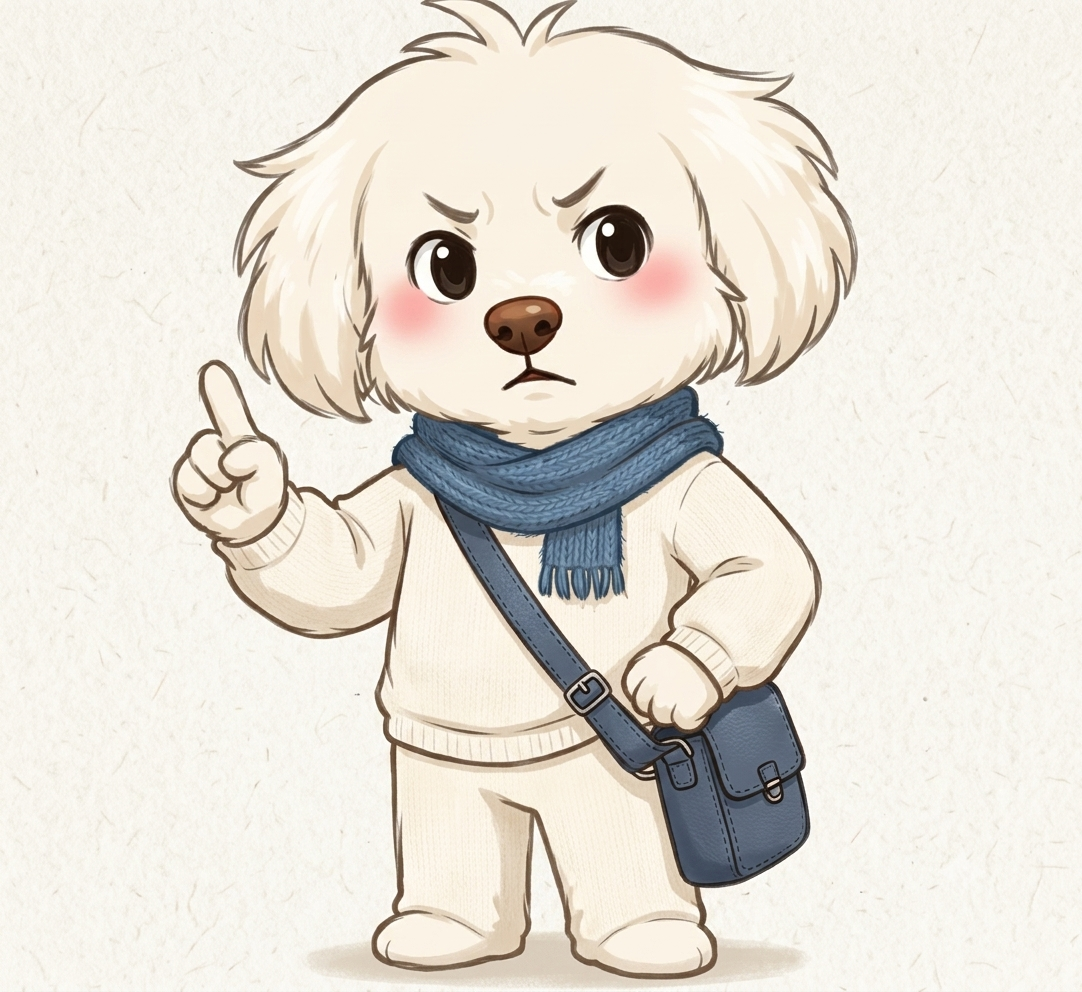
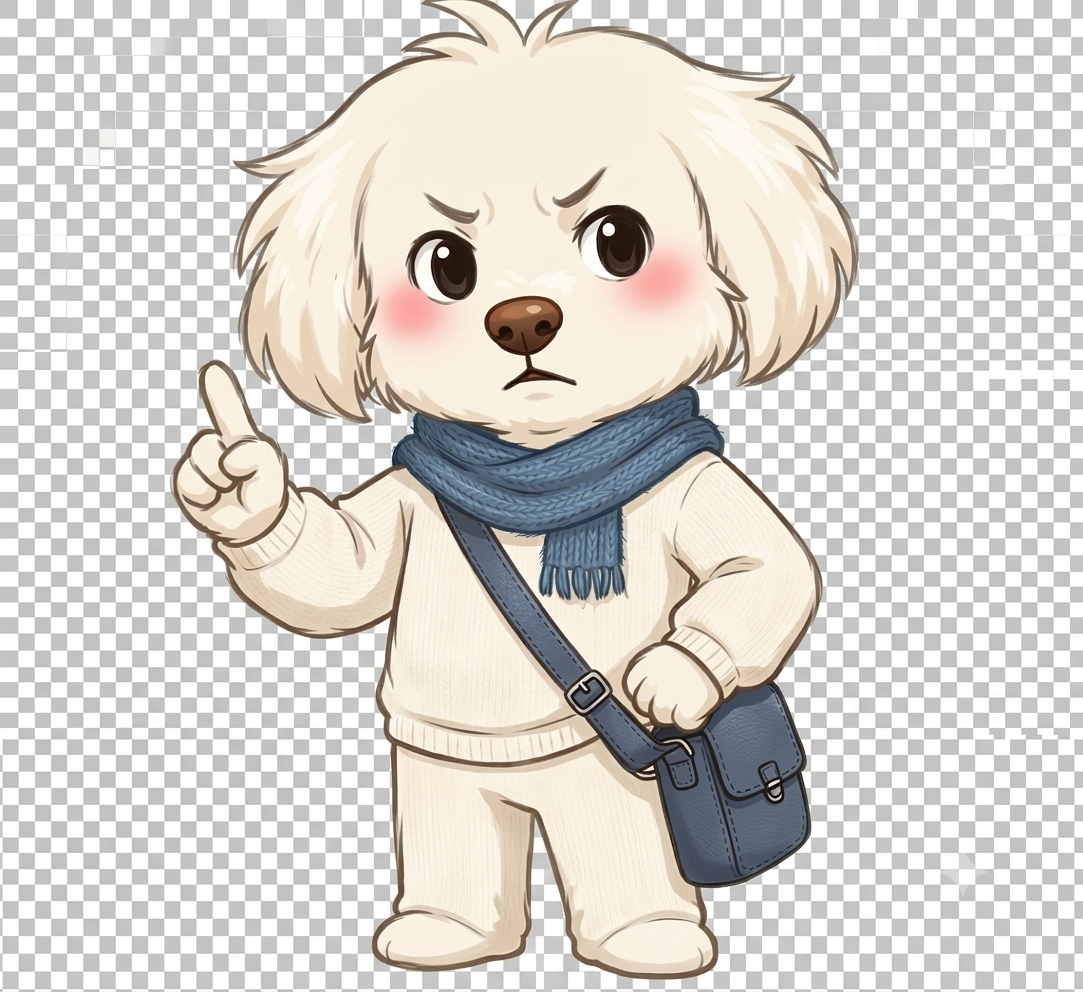
fix: mensajes Rufi mas naturales con datos curiosos de Chile

diff --git a/frontend/src/App.jsx b/frontend/src/App.jsx
@@ -27,11 +27,11 @@ function saveProgreso(zonaId, puntaje) {
 const USUARIO_ID = getUserId()
 
 const ZONA_INFO = [
-  { msg: "El norte te espera, vamos!" },
-  { msg: "Norte Chico, tu siguiente parada!" },
-  { msg: "Zona Central, el corazon de Chile!" },
-  { msg: "El sur es tuyo, dale!" },
-  { msg: "Ultimo nivel, lo tienes!" },
+  { msg: "El desierto de Atacama es el mas arido del mundo. Hay zonas donde no ha llovido nunca." },
+  { msg: "La NASA probo sus rovers en el Valle de la Luna porque se parece tanto a Marte." },
+  { msg: "Santiago esta rodeada por los Andes. En dias despejados ves picos nevados desde cualquier parte de la ciudad." },
+  { msg: "Los arboles de la Araucania tienen hasta 2.000 anos de antiguedad. Son mas viejos que la mayoria de los paises del mundo." },
+  { msg: "Torres del Paine tiene glaciares que tardan miles de anos en formarse. El azul del hielo es real, no es filtro." },
 ]
 
 const POSICIONES = [
@@ -138,12 +138,13 @@ export default function App() {
   /* ── MAPA ── */
   if (pantalla === "mapa") {
     const zonaActualIdx = zonas.findIndex(z => z.desbloqueada && !z.completada)
-    const msg = zonaActualIdx >= 0 ? ZONA_INFO[zonaActualIdx].msg : "Completaste todo Chile!"
+    const msg = zonaActualIdx >= 0
+      ? ZONA_INFO[zonaActualIdx].msg
+      : "Completaste todo Chile. Eso no lo hace cualquiera."
 
     return (
       <div style={{ fontFamily:"system-ui,sans-serif", background:"#a8d4e6", minHeight:"100vh" }}>
 
-        {/* Header fijo encima */}
         <div style={{ position:"fixed", top:0, left:0, right:0, zIndex:50, background:"rgba(255,255,255,0.85)", backdropFilter:"blur(6px)", padding:"10px 20px", display:"flex", alignItems:"center", justifyContent:"space-between", boxShadow:"0 1px 8px rgba(0,0,0,0.1)" }}>
           <h1 style={{ fontSize:22, fontWeight:900, color:"#1a3a1a", margin:0 }}>PreuSmart</h1>
           <div style={{ display:"flex", gap:4 }}>
@@ -153,7 +154,6 @@ export default function App() {
           </div>
         </div>
 
-        {/* Mapa como imagen real — zonas posicionadas encima */}
         <div style={{ position:"relative", marginTop:52 }}>
           <img
             src="/mapa-chile.png"
@@ -161,7 +161,6 @@ export default function App() {
             style={{ width:"100%", display:"block" }}
           />
 
-          {/* Zona markers sobre el mapa */}
           {zonas.map((zona, i) => {
             const esCurrent = zona.desbloqueada && !zona.completada
             const pos = POSICIONES[i]
@@ -197,7 +196,6 @@ export default function App() {
                 }}>
                   {zona.completada ? "✅" : zona.desbloqueada ? zona.icono : "🔒"}
                 </div>
-
                 <div style={{
                   background:"rgba(255,255,255,0.9)",
                   borderRadius:20,
@@ -210,7 +208,6 @@ export default function App() {
                 }}>
                   {zona.nombre}
                 </div>
-
                 {esCurrent && (
                   <div style={{
                     background:"#4CAF50",
@@ -228,7 +225,6 @@ export default function App() {
             )
           })}
 
-          {/* Rufi + burbuja sobre el mapa abajo */}
           <div style={{
             position:"absolute",
             bottom:16,
@@ -244,11 +240,11 @@ export default function App() {
               borderRadius:"16px 16px 16px 4px",
               padding:"8px 12px",
               boxShadow:"0 2px 14px rgba(0,0,0,0.18)",
-              maxWidth:180,
+              maxWidth:200,
               fontSize:12,
-              fontWeight:600,
+              fontWeight:500,
               color:"#2C3E50",
-              lineHeight:1.4,
+              lineHeight:1.5,
             }}>
               {msg}
             </div>
@@ -271,6 +267,7 @@ export default function App() {
     return (
       <div style={{ minHeight:"100vh", background:"linear-gradient(180deg,#E8F5E9 0%,#F1F8E9 100%)", fontFamily:"system-ui,sans-serif", padding:"16px 16px 32px" }}>
         <div style={{ maxWidth:440, margin:"0 auto" }}>
+
           <div style={{ display:"flex", alignItems:"center", gap:10, marginBottom:20 }}>
             <button onClick={() => setPantalla("mapa")} style={{ background:"#fff", border:"none", borderRadius:10, padding:"8px 14px", cursor:"pointer", fontSize:18, boxShadow:"0 2px 6px rgba(0,0,0,0.1)" }}>←</button>
             <div style={{ flex:1 }}>
@@ -309,20 +306,20 @@ export default function App() {
             <div>
               <div style={{ padding:"12px 16px", borderRadius:14, marginBottom:12, background:seleccion===pregunta.respuesta_correcta?"#E8F5E9":"#FFEBEE", border:`1px solid ${seleccion===pregunta.respuesta_correcta?"#4CAF50":"#F44336"}` }}>
                 <div style={{ fontWeight:700, fontSize:14, color:seleccion===pregunta.respuesta_correcta?"#2E7D32":"#C62828", marginBottom:4 }}>
-                  {seleccion===pregunta.respuesta_correcta?"Correcto!":"No era esa"}
+                  {seleccion===pregunta.respuesta_correcta?"Correcto":"No era esa"}
                 </div>
                 <div style={{ fontSize:13, color:"#555", lineHeight:1.5 }}>{pregunta.explicacion}</div>
               </div>
 
               <div style={{ display:"flex", alignItems:"flex-end", gap:10, marginBottom:14 }}>
                 <img src={`/${imgMascota}`} alt="Rufi" style={{ width:85, height:85, objectFit:"contain", flexShrink:0 }}/>
-                <div style={{ background:"#fff", borderRadius:"16px 16px 16px 4px", padding:"10px 14px", boxShadow:"0 2px 10px rgba(0,0,0,0.1)", fontSize:13, fontWeight:600, color:"#2C3E50", flex:1, lineHeight:1.4 }}>
-                  {cargandoComentario ? "..." : comentario || (seleccion===pregunta.respuesta_correcta?"Bien hecho!":"Vamos, tu puedes!")}
+                <div style={{ background:"#fff", borderRadius:"16px 16px 16px 4px", padding:"10px 14px", boxShadow:"0 2px 10px rgba(0,0,0,0.1)", fontSize:13, fontWeight:500, color:"#2C3E50", flex:1, lineHeight:1.5 }}>
+                  {cargandoComentario ? "..." : comentario || (seleccion===pregunta.respuesta_correcta?"Bien hecho.":"Sigue, la proxima es tuya.")}
                 </div>
               </div>
 
               <button onClick={siguiente} style={{ width:"100%", padding:15, background:"linear-gradient(135deg,#4CAF50,#2E7D32)", border:"none", borderRadius:14, color:"#fff", fontSize:15, fontWeight:700, cursor:"pointer", boxShadow:"0 4px 12px rgba(76,175,80,0.4)" }}>
-                {indice+1>=preguntas.length?"Completar zona!":"Siguiente →"}
+                {indice+1>=preguntas.length?"Completar zona":"Siguiente →"}
               </button>
             </div>
           )}
@@ -338,10 +335,10 @@ export default function App() {
       <div style={{ fontSize:60, marginBottom:8 }}>🎉</div>
       <img src="/mascota.png" alt="Rufi" style={{ width:160, height:160, objectFit:"contain", marginBottom:16 }}/>
       <h2 style={{ fontSize:26, fontWeight:900, color:"#fff", textShadow:"0 2px 8px rgba(0,0,0,0.3)", margin:"0 0 8px" }}>
-        {zonaActiva?.nombre} completada!
+        {zonaActiva?.nombre} completada
       </h2>
       <p style={{ color:"rgba(255,255,255,0.9)", marginBottom:20, fontSize:15 }}>
-        Respondiste {correctas} de {preguntas.length} correctamente
+        {correctas} de {preguntas.length} correctas
       </p>
       <div style={{ display:"flex", gap:8, marginBottom:24 }}>
         {preguntas.map((_,i) => <span key={i} style={{ fontSize:32, filter:i<correctas?"none":"grayscale(1) opacity(0.4)" }}>⭐</span>)}
@@ -352,7 +349,7 @@ export default function App() {
         </div>
       )}
       <button onClick={() => setPantalla("mapa")} style={{ padding:"15px 32px", background:"#fff", border:"none", borderRadius:14, color:"#2E7D32", fontSize:16, fontWeight:800, cursor:"pointer", boxShadow:"0 4px 16px rgba(0,0,0,0.2)" }}>
-        Volver al mapa →
+        Volver al mapa
       </button>
     </div>
   )

diff --git a/backend/main.py b/backend/main.py
@@ -83,18 +83,14 @@ def guardar_progreso(data: ProgresoInput):
 @app.post("/comentario")
 def generar_comentario(data: ComentarioInput):
     if data.es_correcto:
-        prompt = f"""Pregunta PAES respondida correctamente: "{data.pregunta}"
-Escribe UNA sola frase corta de celebracion para un adolescente chileno de 17 anos.
-Tono: amigo cercano, moderno, natural. Como si fuera un mensaje de WhatsApp.
-Ejemplos del vibe correcto: "la rompiste", "eso era", "crack total", "sabias que la tenias".
-Nada de frases de profe ni emojis. Solo la frase, sin comillas."""
+        prompt = f"""El alumno respondio bien esta pregunta PAES: "{data.pregunta}"
+Escribe UNA sola frase breve y genuina. Tono: amigo que te conoce bien, directo, sin exagerar.
+Nada de frases de profe ni jerga forzada. Sin emojis. Solo la frase, sin comillas."""
     else:
-        prompt = f"""Pregunta PAES respondida mal: "{data.pregunta}".
-Respondio "{data.respuesta_usuario}", correcta era "{data.respuesta_correcta}".
-Escribe UNA sola frase corta de apoyo para un adolescente chileno de 17 anos.
-Tono: amigo que te quiere, no te juzga, te da vuelta rapido.
-Ejemplos del vibe correcto: "no te rajes, la siguiente es tuya", "calma, eso se aprende", "cerca, sigamos".
-Nada de frases de profe ni emojis. Solo la frase, sin comillas."""
+        prompt = f"""El alumno se equivoco en esta pregunta PAES: "{data.pregunta}"
+Respondio "{data.respuesta_usuario}", la correcta era "{data.respuesta_correcta}".
+Escribe UNA sola frase corta de apoyo genuino. Tono: amigo calmado que no juzga, directo.
+Nada de dramatismo ni frases de profe. Sin emojis. Solo la frase, sin comillas."""
 
     respuesta = claude.messages.create(
         model="claude-sonnet-4-5",
